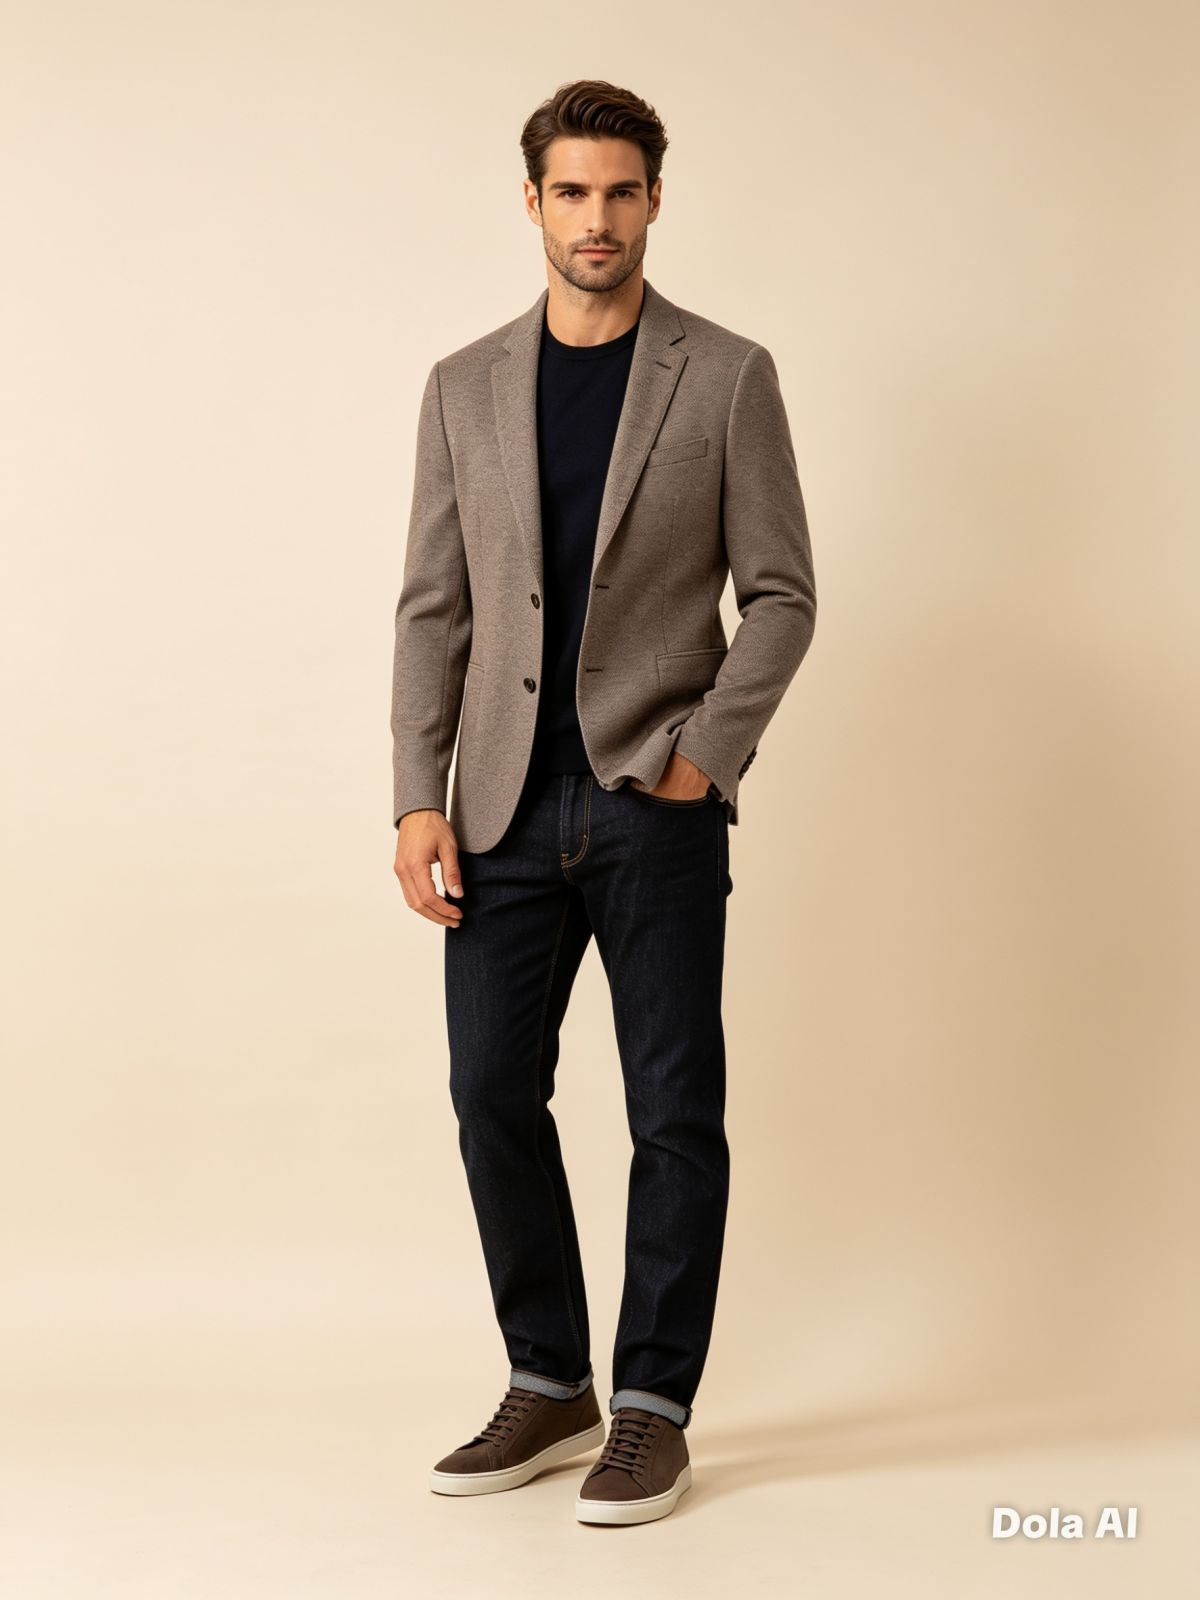
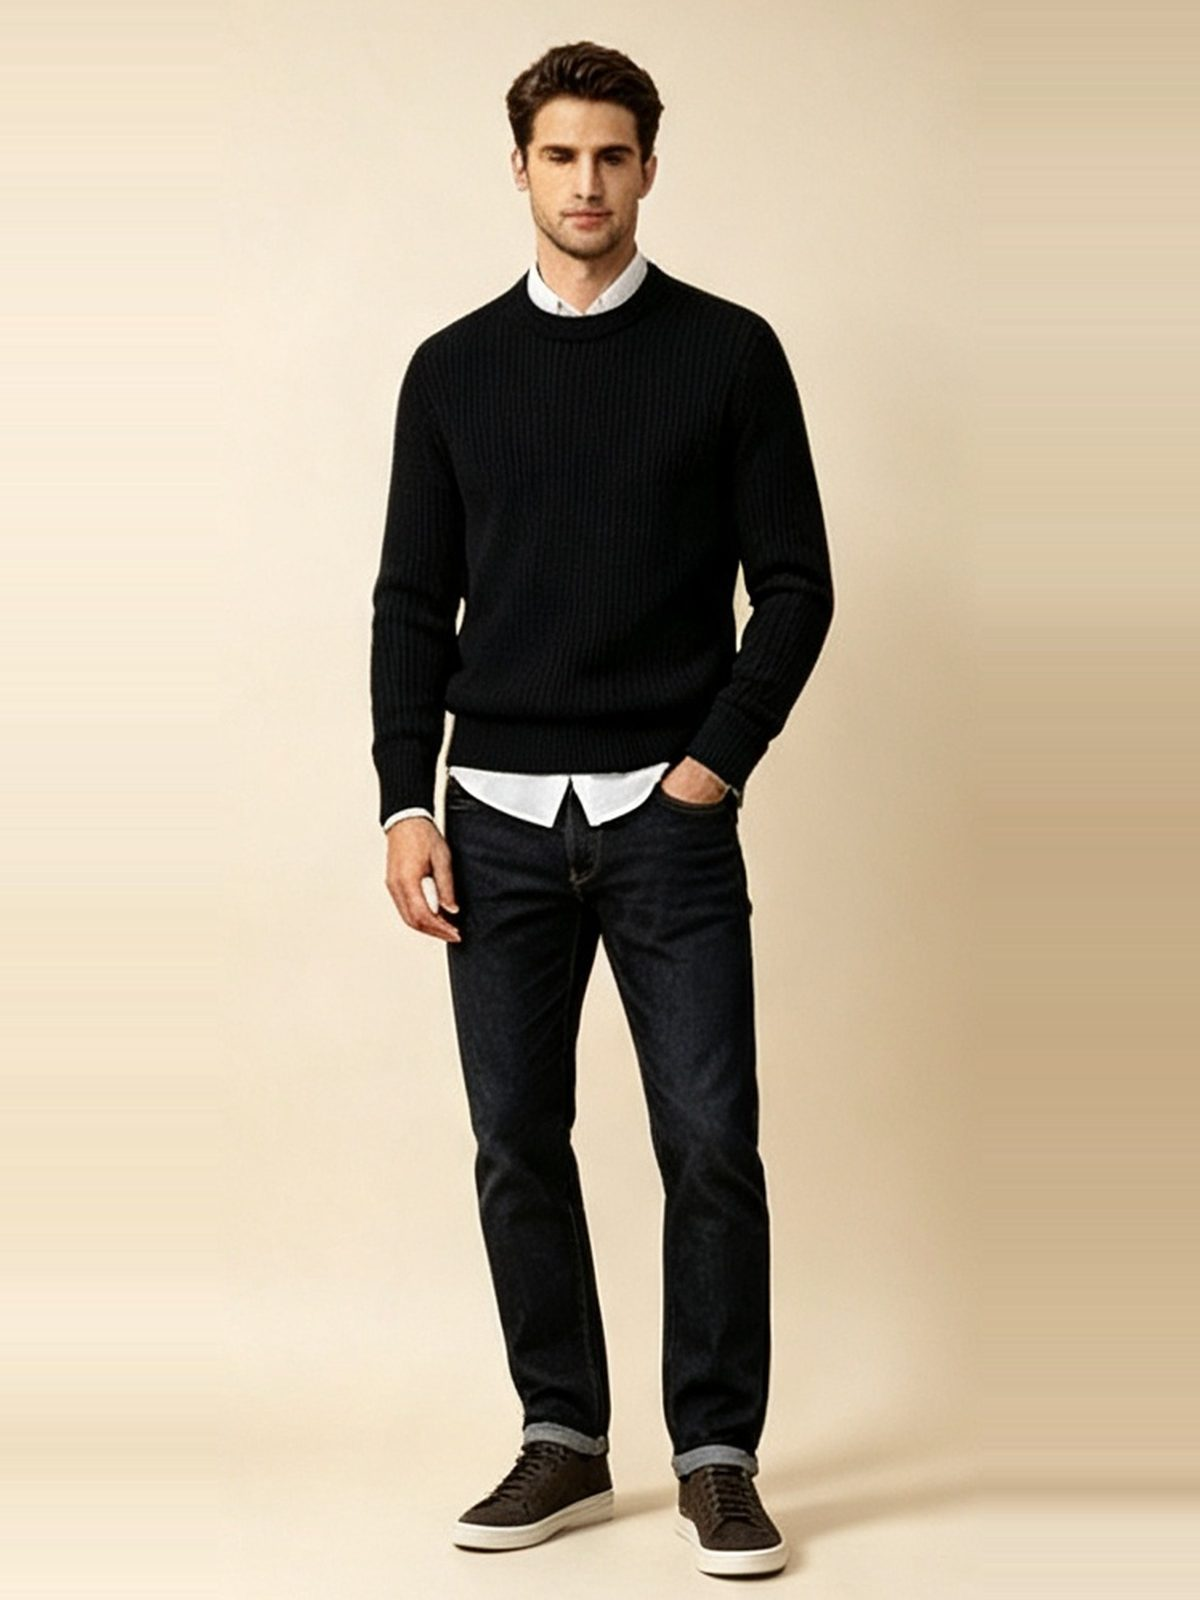
Rebrand to Economic Briefing 2026 and refresh event content
- Retitle the event to "SJ Group of Companies Economic Briefing 2026" in
  the page heading and the document title
- Point registration at the new MS Forms link (HpxisStZGc) and swap in the
  matching QR code; the old QR encoded the retired jzDSJCE3Cx form
- Relabel the registration CTA to "CLICK TO REGISTER"
- Replace the three previous speakers with Ronilo Balbieran
- Refresh the business casual outfit grid with the new sample set
- Replace both backgrounds with the new cityscape art, and re-encode the
  mobile backdrop as JPEG (1.49 MB PNG -> 323 KB) for a 48% cut in
  background payload

Changed region(s): [[0.3083, 0.0, 1.0, 1.0]]

diff --git a/src/components/SpeakersCard.tsx b/src/components/SpeakersCard.tsx
@@ -1,7 +1,5 @@
 import { Mic } from 'lucide-react'
-import speakerManlapaz from '../assets/speaker-manlapaz.jpg'
-import speakerParekh from '../assets/speaker-parekh.jpg'
-import speakerGogna from '../assets/speaker-gogna.jpg'
+import speakerBalbieran from '../assets/speaker-balbieran.jpg'
 import logoFacebook from '../assets/logo-facebook.png'
 import logoLinkedin from '../assets/logo-linkedin.png'
 import logoSpotify from '../assets/logo-spotify.png'
@@ -29,27 +27,10 @@ type Speaker = {
 
 const SPEAKERS: Speaker[] = [
   {
-    name: 'Christian Manlapaz',
-    photo: speakerManlapaz,
+    name: 'Ronilo Balbieran',
+    photo: speakerBalbieran,
     links: [
-      { platform: 'linkedin', href: 'https://www.linkedin.com/in/cris-manlapaz' },
-    ],
-  },
-  {
-    name: 'Maulik Parekh',
-    photo: speakerParekh,
-    links: [
-      { platform: 'linkedin', href: 'https://www.linkedin.com/in/iammaulikparekh' },
-      { platform: 'facebook', href: 'https://www.facebook.com/iammaulikparekh' },
-      { platform: 'spotify', href: 'https://open.spotify.com/show/2PVoiC64mXIoFURvculvjj' },
-    ],
-  },
-  {
-    name: 'Arun Gogna',
-    photo: speakerGogna,
-    links: [
-      { platform: 'facebook', href: 'https://www.facebook.com/gognaarun' },
-      { platform: 'youtube', href: 'https://www.youtube.com/@gognaarun' },
+      { platform: 'linkedin', href: 'https://www.linkedin.com/in/ronilobalbieran/' },
     ],
   },
 ]

diff --git a/src/App.tsx b/src/App.tsx
@@ -1,7 +1,7 @@
 import RegistrationCard from './components/RegistrationCard'
 import SpeakersCard from './components/SpeakersCard'
 import DressCodeCard from './components/DressCodeCard'
-import mobileBg from './assets/mobile-bg.png'
+import mobileBg from './assets/mobile-bg.jpg'
 import desktopBg from './assets/desktop-bg.jpg'
 
 function App() {
@@ -27,7 +27,7 @@ function App() {
             SJ Group of Companies
           </h1>
           <h2 className="mt-1 font-lora font-bold uppercase tracking-wide text-navy drop-shadow-sm text-[clamp(1.5rem,5vw,3.25rem)] leading-tight">
-            2026 Conference
+            Economic Briefing 2026
           </h2>
         </header>
 

diff --git a/src/components/RegistrationCard.tsx b/src/components/RegistrationCard.tsx
@@ -1,7 +1,7 @@
 import { ClipboardCheck } from 'lucide-react'
 import qrCode from '../assets/qr-code.png'
 
-const REGISTRATION_URL = 'https://forms.cloud.microsoft/r/jzDSJCE3Cx'
+const REGISTRATION_URL = 'https://forms.cloud.microsoft/r/HpxisStZGc'
 
 function RegistrationCard() {
   return (
@@ -32,7 +32,7 @@ function RegistrationCard() {
         rel="noopener noreferrer"
         className="mt-4 inline-flex min-h-11 items-center rounded-md border-2 border-blue-900 bg-blue-700 px-5 py-2 text-sm font-bold uppercase tracking-wide text-white shadow transition hover:bg-blue-800"
       >
-        Scan to Register
+        CLICK TO REGISTER
       </a>
     </div>
   )

diff --git a/index.html b/index.html
@@ -10,7 +10,7 @@
       href="https://fonts.googleapis.com/css2?family=DM+Sans:wght@500;600;700&family=Lora:wght@500;600;700&display=swap"
       rel="stylesheet"
     />
-    <title>SJ Group of Companies — 2026 Conference</title>
+    <title>SJ Group of Companies Economic Briefing 2026</title>
   </head>
   <body>
     <div id="root"></div>
